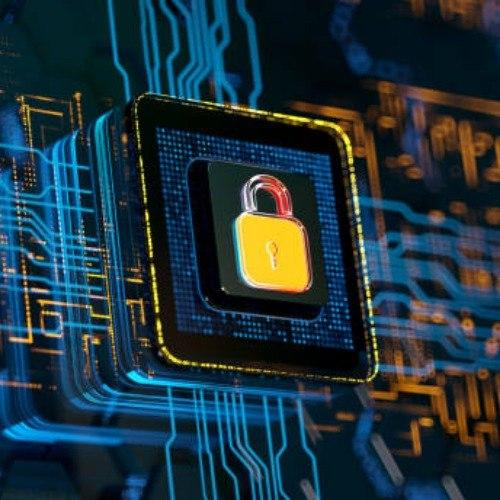
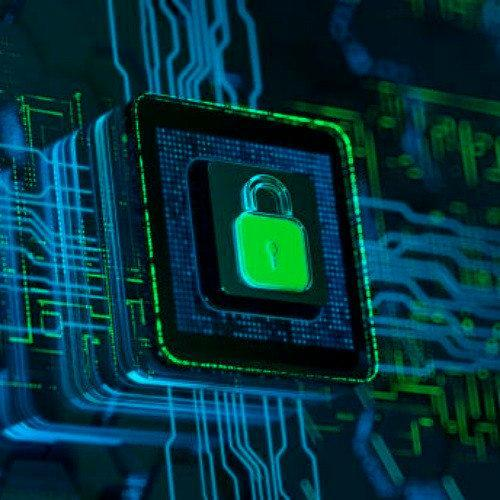
edit the req 8-10

diff --git a/src/main/java/MainFrame.java b/src/main/java/MainFrame.java
@@ -51,6 +51,7 @@ public class MainFrame extends JFrame {
 	private JPanel imageToolsPanel;
 	private JLabel imageLabel;
 	private JLabel imageInfoLabel;
+	private ImageInfoPanel imageInfoPanel;
 	private JLabel colorValuesLabel;
 	private BufferedImage image;
 	private BufferedImage originalImage;
@@ -116,6 +117,9 @@ public class MainFrame extends JFrame {
 		imageToolsPanel.add(convertToColorSystem);
 		imageToolsPanel.add(componentPanel);
 		imageToolsPanel.add(channelPlanesPanel);
+		imageInfoPanel = new ImageInfoPanel();
+		imageInfoPanel.setAlignmentX(JButton.LEFT_ALIGNMENT);
+		imageToolsPanel.add(imageInfoPanel);
 		imageToolsPanel.add(Box.createVerticalStrut(6));
 		JLabel formatLbl = new JLabel("Image format:");
 		formatLbl.setForeground(Color.WHITE);
@@ -147,6 +151,7 @@ public class MainFrame extends JFrame {
 			}
 			activeSystem = parseSystem((String) convertToColorSystem.getSelectedItem());
 			loadColorSystem(activeSystem);
+			updateImageMetadata();
 		});
 
 		convertToImageFormat = new JComboBox<>(imageFormats);
@@ -160,7 +165,10 @@ public class MainFrame extends JFrame {
 				convertImageFormat("png");
 			} else if ("JPG".equalsIgnoreCase(sel)) {
 				convertImageFormat("jpg");
+			} else if ("BMP".equalsIgnoreCase(sel)) {
+				convertImageFormat("bmp");
 			}
+			updateImageMetadata();
 		});
 	}
 
@@ -358,6 +366,7 @@ public class MainFrame extends JFrame {
 			suppressColorComboEvents = false;
 			loadColorSystem(ColorSpaceMath.System.RGB);
 			componentPanel.resetSlidersUi();
+			updateImageMetadata();
 			colorValuesLabel.setText("Click image or color space to inspect values.");
 		} catch (IOException ex) {
 			JOptionPane.showMessageDialog(this, "Could not load image: " + ex.getMessage());
@@ -385,6 +394,7 @@ public class MainFrame extends JFrame {
 		}
 		imageLabel.setIcon(new ImageIcon(image));
 		imageInfoLabel.setText("No image selected — use Select or drag & drop.");
+		imageInfoPanel.clear();
 		colorValuesLabel.setText(" ");
 		colorSpace3DPanel.setPointCloud(null, null);
 	}
@@ -399,6 +409,7 @@ public class MainFrame extends JFrame {
 		suppressColorComboEvents = false;
 		loadColorSystem(ColorSpaceMath.System.RGB);
 		componentPanel.resetSlidersUi();
+		updateImageMetadata();
 		colorValuesLabel.setText("Image reset to original.");
 	}
 
@@ -456,20 +467,25 @@ public class MainFrame extends JFrame {
 		updateImageInfoLabel();
 	}
 
-	private void updateImageInfoLabel() {
-		if (imageName == null || imageExtension == null) {
+	private void updateImageMetadata() {
+		if (image == null || imageFile == null || imageName == null || imageExtension == null) {
 			return;
 		}
-		int imageSize = (int) imageBytes / 1024;
-		if (imageSize == 0 && imageBytes > 0) {
-			imageSize = 1;
+		try {
+			ImageMetadata meta = new ImageMetadata(imageFile, image, imageExtension, activeSystem.name(),
+					getSelectedFormatFromCombo(), imageBytes);
+			imageInfoPanel.showMetadata(meta);
+			imageInfoLabel.setText(String.format(
+					"<html><b>%s</b> — %d×%d px — %s — Color: <b>%s</b></html>",
+					imageName, imageWidth, imageHeight, ImageMetadata.formatFileSize(imageBytes),
+					activeSystem.name()));
+		} catch (IOException e) {
+			imageInfoLabel.setText("Could not read image metadata.");
 		}
-		String imageSizeExtension = (imageSize / 1024 >= 1) ? "MB" : "KB";
-		int displaySize = (imageSize / 1024 >= 1) ? imageSize / 1024 : imageSize;
-		imageInfoLabel.setText(String.format(
-				"<html><b>%s</b> &nbsp;|&nbsp; %d×%d px &nbsp;|&nbsp; %d%s &nbsp;|&nbsp; %s &nbsp;|&nbsp; Space: <b>%s</b></html>",
-				imageName, imageWidth, imageHeight, displaySize, imageSizeExtension, imageExtension.toUpperCase(),
-				activeSystem.name()));
+	}
+
+	private void updateImageInfoLabel() {
+		updateImageMetadata();
 	}
 
 	private void syncFormatComboBox() {
@@ -478,32 +494,103 @@ public class MainFrame extends JFrame {
 			convertToImageFormat.setSelectedIndex(0);
 		} else if ("jpg".equalsIgnoreCase(imageExtension) || "jpeg".equalsIgnoreCase(imageExtension)) {
 			convertToImageFormat.setSelectedIndex(1);
+		} else if ("bmp".equalsIgnoreCase(imageExtension)) {
+			convertToImageFormat.setSelectedIndex(2);
 		}
 		suppressFormatComboEvents = false;
 	}
 
+	private String getSelectedFormatFromCombo() {
+		String sel = (String) convertToImageFormat.getSelectedItem();
+		if (sel == null) {
+			return imageExtension != null ? imageExtension : "png";
+		}
+		if ("PNG".equalsIgnoreCase(sel)) {
+			return "png";
+		}
+		if ("JPG".equalsIgnoreCase(sel)) {
+			return "jpg";
+		}
+		if ("BMP".equalsIgnoreCase(sel)) {
+			return "bmp";
+		}
+		return normalizeExtension(sel);
+	}
+
+	private FileNameExtensionFilter filterForFormat(String format) {
+		switch (normalizeExtension(format)) {
+		case "jpg":
+			return new FileNameExtensionFilter("JPEG image (*.jpg, *.jpeg)", "jpg", "jpeg");
+		case "bmp":
+			return new FileNameExtensionFilter("Bitmap image (*.bmp)", "bmp");
+		default:
+			return new FileNameExtensionFilter("PNG image (*.png)", "png");
+		}
+	}
+
+	private File ensureFileExtension(File file, String format) {
+		String ext = "." + normalizeExtension(format);
+		File parent = file.getParentFile();
+		if (parent == null) {
+			parent = new File(".");
+		}
+		String name = file.getName();
+		int dot = name.lastIndexOf('.');
+		String base = dot > 0 ? name.substring(0, dot) : name;
+		return new File(parent, base + ext);
+	}
+
+	private String defaultSaveFileName(String format) {
+		String base = imageName;
+		int dot = base.lastIndexOf('.');
+		if (dot > 0) {
+			base = base.substring(0, dot);
+		}
+		return base + "." + normalizeExtension(format);
+	}
+
+	private BufferedImage prepareImageForFormat(BufferedImage src, String format) {
+		if ("jpg".equals(normalizeExtension(format)) && src.getColorModel().hasAlpha()) {
+			return flattenAlphaToRgb(src);
+		}
+		if ("bmp".equals(normalizeExtension(format))) {
+			BufferedImage rgb = new BufferedImage(src.getWidth(), src.getHeight(), BufferedImage.TYPE_INT_RGB);
+			Graphics2D g = rgb.createGraphics();
+			g.drawImage(src, 0, 0, null);
+			g.dispose();
+			return rgb;
+		}
+		return src;
+	}
+
 	private void saveImage() {
-		if (image == null || imageExtension == null) {
+		if (image == null) {
+			JOptionPane.showMessageDialog(this, "No image to save.");
 			return;
 		}
-		fileChooser.setDialogTitle("Save image");
-		if (imageExtension.equalsIgnoreCase("png")) {
-			fileChooser.setFileFilter(new FileNameExtensionFilter("PNG", "png"));
-		} else {
-			fileChooser.setFileFilter(new FileNameExtensionFilter("JPEG", "jpg", "jpeg"));
-		}
+		String saveFormat = getSelectedFormatFromCombo();
+		fileChooser.setDialogTitle("Save image as " + saveFormat.toUpperCase());
+		fileChooser.setFileFilter(filterForFormat(saveFormat));
 		fileChooser.setAcceptAllFileFilterUsed(false);
 		fileChooser.setFileSelectionMode(JFileChooser.FILES_ONLY);
-		fileChooser.setSelectedFile(new File(imageName));
+		fileChooser.setSelectedFile(new File(defaultSaveFileName(saveFormat)));
 		if (fileChooser.showSaveDialog(this) == JFileChooser.APPROVE_OPTION) {
 			try {
-				File saveFile = fileChooser.getSelectedFile();
-				BufferedImage toSave = image;
-				if (imageExtension.equalsIgnoreCase("jpg") && image.getColorModel().hasAlpha()) {
-					toSave = flattenAlphaToRgb(image);
+				File saveFile = ensureFileExtension(fileChooser.getSelectedFile(), saveFormat);
+				BufferedImage toSave = prepareImageForFormat(image, saveFormat);
+				String writerFormat = normalizeExtension(saveFormat);
+				if (!ImageIO.write(toSave, writerFormat, saveFile)) {
+					JOptionPane.showMessageDialog(this,
+							"No ImageIO writer for format: " + writerFormat.toUpperCase());
+					return;
 				}
-				ImageIO.write(toSave, normalizeExtension(imageExtension), saveFile);
-				JOptionPane.showMessageDialog(this, "Saved:\n" + saveFile.getAbsolutePath());
+				imageExtension = writerFormat;
+				imageName = saveFile.getName();
+				imageBytes = saveFile.length();
+				syncFormatComboBox();
+				updateImageInfoLabel();
+				JOptionPane.showMessageDialog(this,
+						"Saved as " + writerFormat.toUpperCase() + ":\n" + saveFile.getAbsolutePath());
 			} catch (IOException e) {
 				JOptionPane.showMessageDialog(this, "Save failed: " + e.getMessage());
 			}

diff --git a/src/main/java/ImageMetadata.java b/src/main/java/ImageMetadata.java
@@ -1,0 +1,127 @@
+import java.awt.image.BufferedImage;
+import java.io.File;
+import java.io.IOException;
+import java.nio.file.Files;
+
+/**
+ * Collects image file and pixel metadata (requirement 8).
+ */
+public class ImageMetadata {
+
+	private final String fileName;
+	private final String filePath;
+	private final String format;
+	private final String mimeType;
+	private final long fileSizeBytes;
+	private final int width;
+	private final int height;
+	private final long totalPixels;
+	private final String aspectRatio;
+	private final int imageType;
+	private final String imageTypeLabel;
+	private final boolean hasAlpha;
+	private final int bitsPerPixel;
+	private final String colorModel;
+	private final String activeColorSystem;
+	private final String saveFormat;
+
+	public ImageMetadata(File file, BufferedImage image, String format, String activeColorSystem, String saveFormat,
+			long fileSizeBytes) throws IOException {
+		this.fileName = file.getName();
+		this.filePath = file.getAbsolutePath();
+		this.format = format != null ? format.toUpperCase() : "—";
+		this.mimeType = probeMime(file);
+		this.fileSizeBytes = fileSizeBytes > 0 ? fileSizeBytes : (file.exists() ? file.length() : 0);
+		this.width = image.getWidth();
+		this.height = image.getHeight();
+		this.totalPixels = (long) width * height;
+		this.aspectRatio = formatAspectRatio(width, height);
+		this.imageType = image.getType();
+		this.imageTypeLabel = describeImageType(image.getType());
+		this.hasAlpha = image.getColorModel().hasAlpha();
+		this.bitsPerPixel = image.getColorModel().getPixelSize();
+		this.colorModel = image.getColorModel().getClass().getSimpleName();
+		this.activeColorSystem = activeColorSystem;
+		this.saveFormat = saveFormat != null ? saveFormat.toUpperCase() : "—";
+	}
+
+	private static String probeMime(File file) {
+		try {
+			String mime = Files.probeContentType(file.toPath());
+			return mime != null ? mime : "unknown";
+		} catch (IOException e) {
+			return "unknown";
+		}
+	}
+
+	private static String formatAspectRatio(int w, int h) {
+		if (h == 0) {
+			return "—";
+		}
+		int g = gcd(w, h);
+		return (w / g) + ":" + (h / g) + String.format(" (%.2f)", w / (double) h);
+	}
+
+	private static int gcd(int a, int b) {
+		return b == 0 ? a : gcd(b, a % b);
+	}
+
+	private static String describeImageType(int type) {
+		switch (type) {
+		case BufferedImage.TYPE_INT_RGB:
+			return "INT_RGB";
+		case BufferedImage.TYPE_INT_ARGB:
+			return "INT_ARGB";
+		case BufferedImage.TYPE_INT_ARGB_PRE:
+			return "INT_ARGB_PRE";
+		case BufferedImage.TYPE_3BYTE_BGR:
+			return "3BYTE_BGR";
+		case BufferedImage.TYPE_4BYTE_ABGR:
+			return "4BYTE_ABGR";
+		case BufferedImage.TYPE_BYTE_GRAY:
+			return "BYTE_GRAY";
+		case BufferedImage.TYPE_USHORT_GRAY:
+			return "USHORT_GRAY";
+		default:
+			return "TYPE_" + type;
+		}
+	}
+
+	public String toHtml() {
+		return "<html>"
+				+ row("Name", fileName)
+				+ row("Path", filePath)
+				+ row("Format", format)
+				+ row("MIME", mimeType)
+				+ row("File size", formatFileSize(fileSizeBytes))
+				+ row("Dimensions", width + " × " + height + " px")
+				+ row("Total pixels", String.format("%,d", totalPixels))
+				+ row("Megapixels", String.format("%.2f MP", totalPixels / 1_000_000.0))
+				+ row("Aspect ratio", aspectRatio)
+				+ row("Bit depth", bitsPerPixel + " bpp")
+				+ row("Alpha channel", hasAlpha ? "Yes" : "No")
+				+ row("Color model", colorModel)
+				+ row("BufferedImage type", imageTypeLabel)
+				+ row("Active color system", activeColorSystem)
+				+ row("Save format (dropdown)", saveFormat)
+				+ "</html>";
+	}
+
+	private static String row(String label, String value) {
+		return "<b>" + label + ":</b> " + escape(value) + "<br>";
+	}
+
+	private static String escape(String s) {
+		return s.replace("&", "&amp;").replace("<", "&lt;");
+	}
+
+	public static String formatFileSize(long bytes) {
+		if (bytes < 1024) {
+			return bytes + " B";
+		}
+		if (bytes < 1024 * 1024) {
+			return String.format("%.2f KB (%d bytes)", bytes / 1024.0, bytes);
+		}
+		return String.format("%.2f MB (%d bytes)", bytes / (1024.0 * 1024.0), bytes);
+	}
+}

diff --git a/src/main/java/ImageInfoPanel.java b/src/main/java/ImageInfoPanel.java
@@ -1,0 +1,44 @@
+import java.awt.BorderLayout;
+import java.awt.Color;
+import java.awt.Font;
+
+import javax.swing.BorderFactory;
+import javax.swing.JLabel;
+import javax.swing.JPanel;
+import javax.swing.JScrollPane;
+
+/**
+ * Panel for requirement 8 — displays extended image information.
+ */
+public class ImageInfoPanel extends JPanel {
+
+	private final JLabel contentLabel;
+
+	public ImageInfoPanel() {
+		setLayout(new BorderLayout());
+		setBackground(MainFrame.BG_COLOR);
+		setBorder(BorderFactory.createTitledBorder(
+				BorderFactory.createLineBorder(Color.GRAY), "Image information"));
+
+		contentLabel = new JLabel("No image loaded.");
+		contentLabel.setForeground(Color.WHITE);
+		contentLabel.setFont(new Font("Segoe UI", Font.PLAIN, 11));
+		contentLabel.setVerticalAlignment(JLabel.TOP);
+
+		JScrollPane scroll = new JScrollPane(contentLabel);
+		scroll.setBorder(BorderFactory.createEmptyBorder());
+		scroll.getViewport().setBackground(MainFrame.BG_COLOR);
+		scroll.setOpaque(false);
+		add(scroll, BorderLayout.CENTER);
+		setPreferredSize(new java.awt.Dimension(260, 200));
+		setMaximumSize(new java.awt.Dimension(Integer.MAX_VALUE, 220));
+	}
+
+	public void showMetadata(ImageMetadata metadata) {
+		contentLabel.setText(metadata.toHtml());
+	}
+
+	public void clear() {
+		contentLabel.setText("<html><i>No image loaded.</i></html>");
+	}
+}